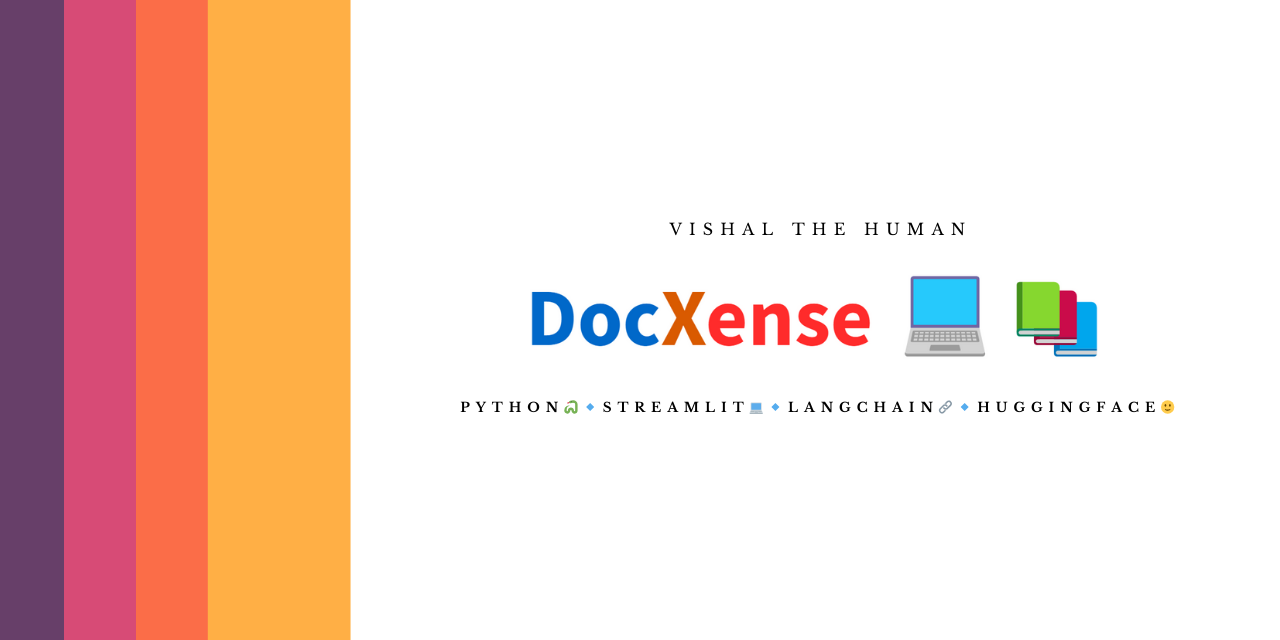
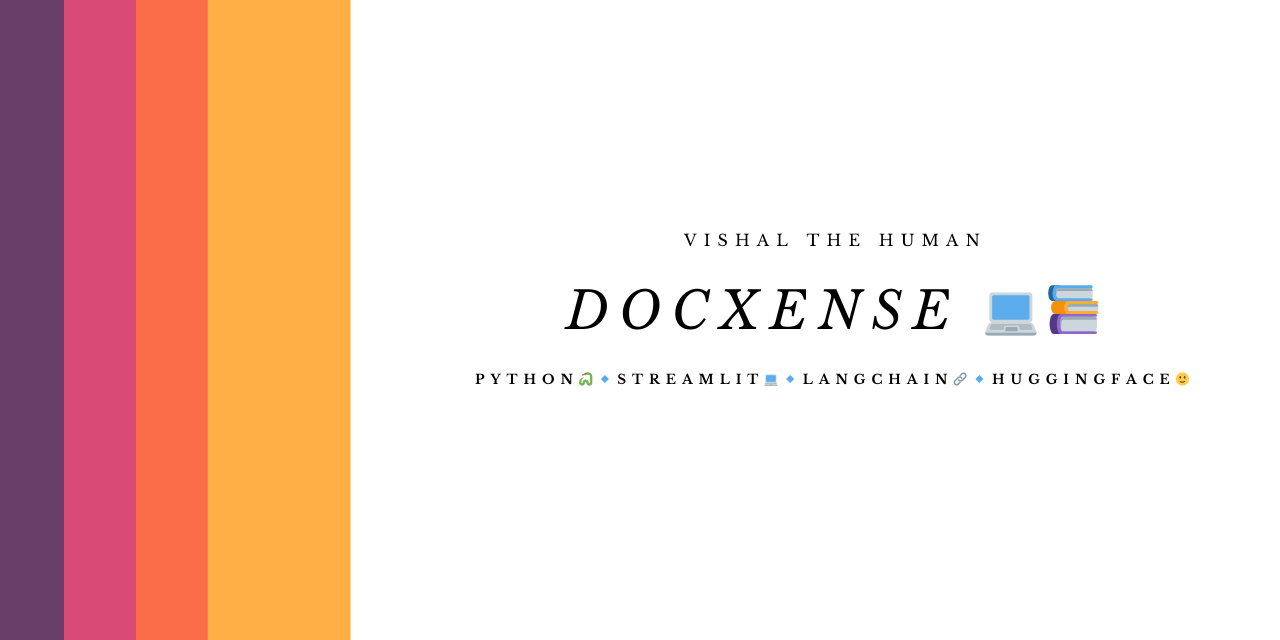
Updated

Changed region(s): [[0.3438, 0.3438, 0.9375, 0.6562]]

diff --git a/README.md b/README.md
@@ -1,6 +1,6 @@
 # DocXense
 
-![banner](https://github.com/VishalTheHuman/DocXense/assets/117697246/b3e568b6-3f2d-4e07-968a-3216bdd53d49)
+![banner](https://github.com/VishalTheHuman/DocXense/assets/117697246/8916e1ee-835d-45d2-bbaa-69b067d17e96)
 
 ## ```Description 📝 :``` 
 <b><span style="color:blue;">Doc</span><span style="color:orange;">X</span><span style="color:red;">ense</span></b>
